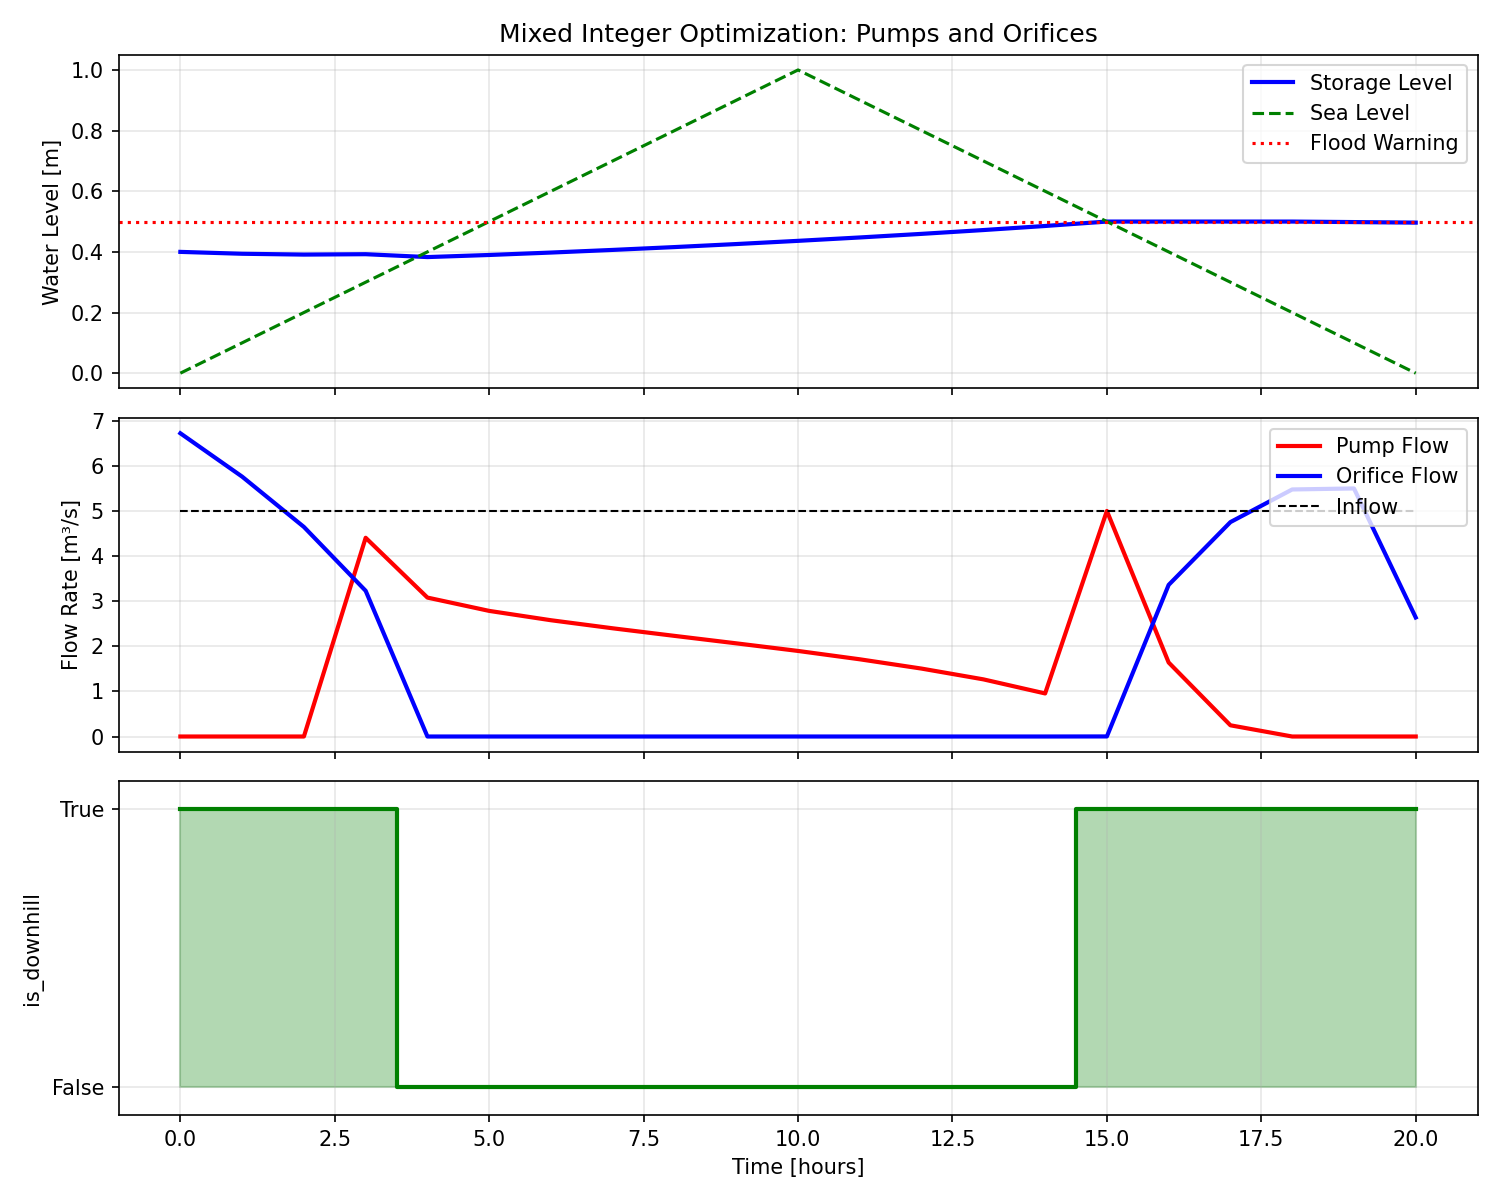
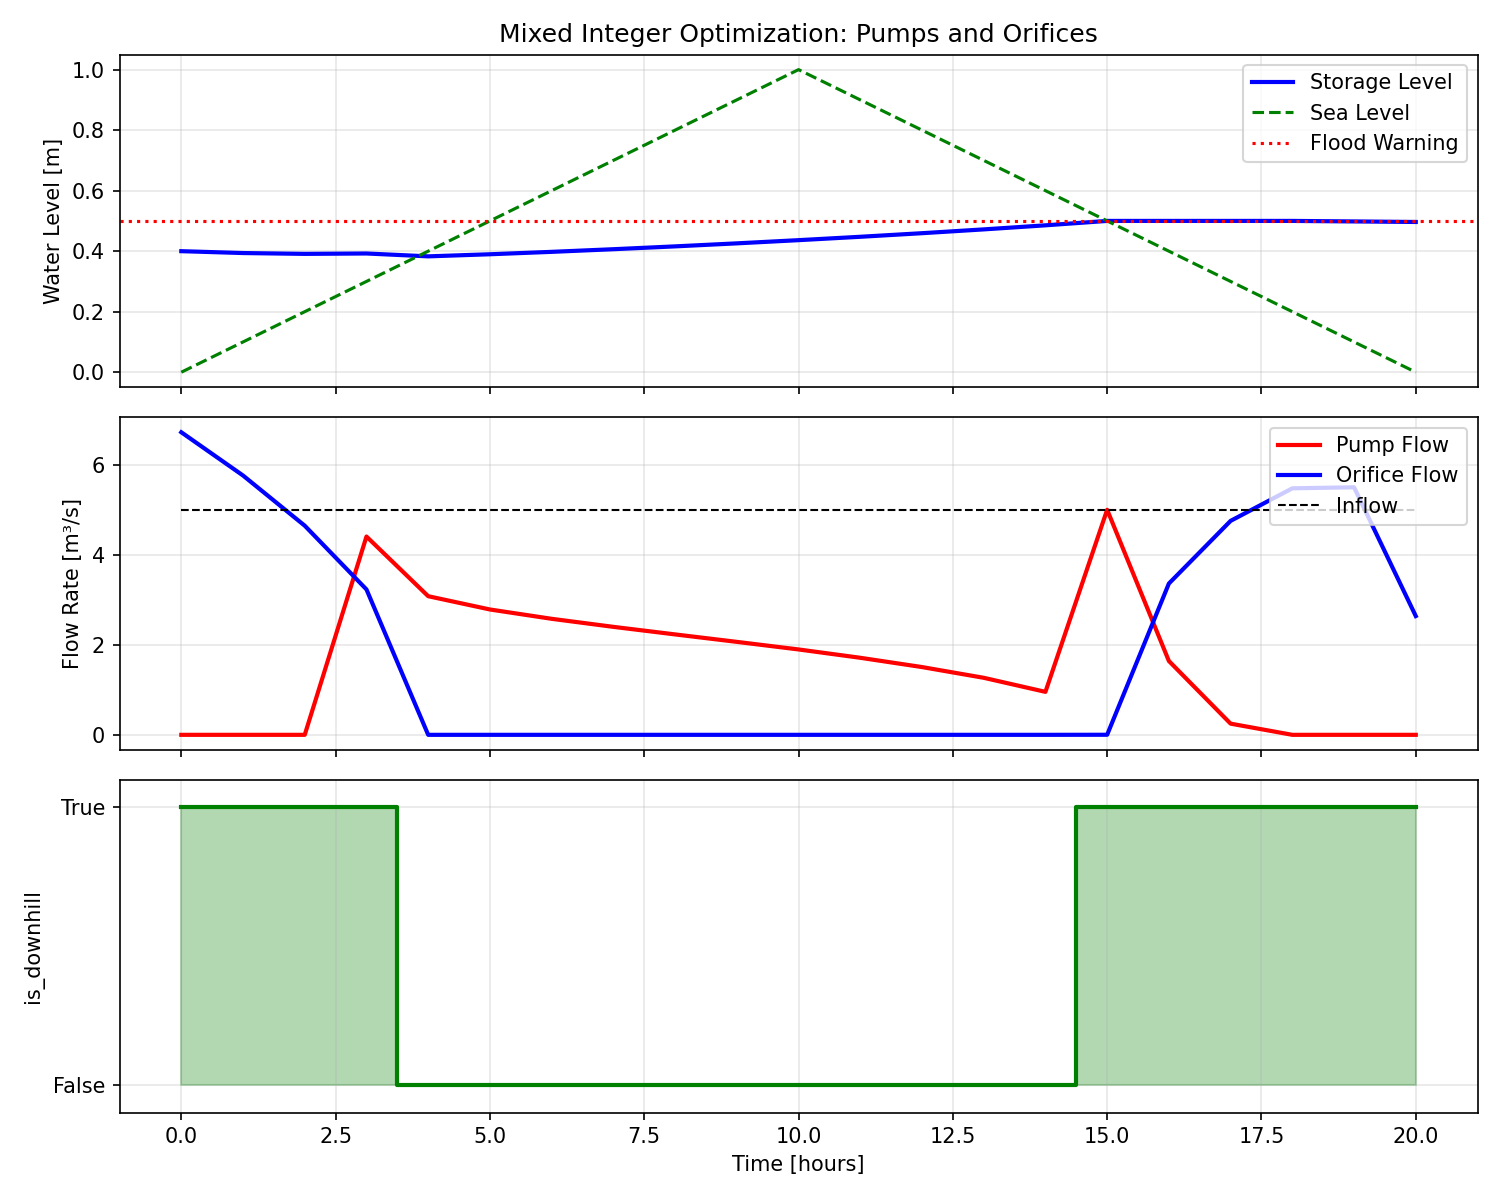
Feasible version

diff --git a/example_pyomo.py b/example_pyomo.py
@@ -25,11 +25,11 @@ energy_dict = {i+1: val for i, val in enumerate(time_series["Energy"][:21])}
 model.Energy = pyo.Param(model.T, initialize=energy_dict)
 
 M = 2
-STORAGE_MAX = 0.4 + random.uniform(0, 0.2)
+STORAGE_MAX = 0.5 #+ random.uniform(0, 0.2)
 H_start = STORAGE_MAX - 0.1
 A = 1e6
 dt = 3600
-PUMP_MAX = 3 - random.uniform(0, 1)
+PUMP_MAX = 7 #- random.uniform(0, 1)
 ORIFICE_MAX = 10
 
 # --- Variables ---
@@ -81,12 +81,12 @@ model.orifice_capacity = pyo.Constraint(model.T, rule=orifice_capacity_rule)
 model.obj = pyo.Objective(expr=sum(model.Q_pump[t] * dt for t in model.T), sense=pyo.minimize)
 
 solver = pyo.SolverFactory('gurobi') 
-results = solver.solve(model, tee=True, symbolic_solver_labels=True)
+results = solver.solve(model, tee=True)
 # For mindtpy: results = solver.solve(model, mip_solver="glpk", nlp_solver="ipopt", tee=True, strategy="OA")
 
 if results.solver.termination_condition == pyo.TerminationCondition.infeasible:
     solver.options['ResultFile'] = '/Users/martijnkrikke/Documents/Scriptie/Scriptie_martijn/ILP files/example_model_iis.ilp'
-    solver.solve(model, symbolic_solver_labels=True)
+    solver.solve(model)
 
 if results.solver.termination_condition == pyo.TerminationCondition.optimal:
     results_list = []

diff --git a/plotting.py b/plotting.py
@@ -14,7 +14,7 @@ import numpy as np
 from example_pyomo import STORAGE_MAX
 
 # Import Data
-data_path = "/Users/martijnkrikke/Documents/Scriptie/mixed_integer/output_results.csv"
+data_path = "/Users/martijnkrikke/Documents/Scriptie/Scriptie_martijn/output_results.csv"
 results = np.genfromtxt(
     data_path, delimiter=",", encoding=None, dtype=None, names=True, case_sensitive="lower"
 )